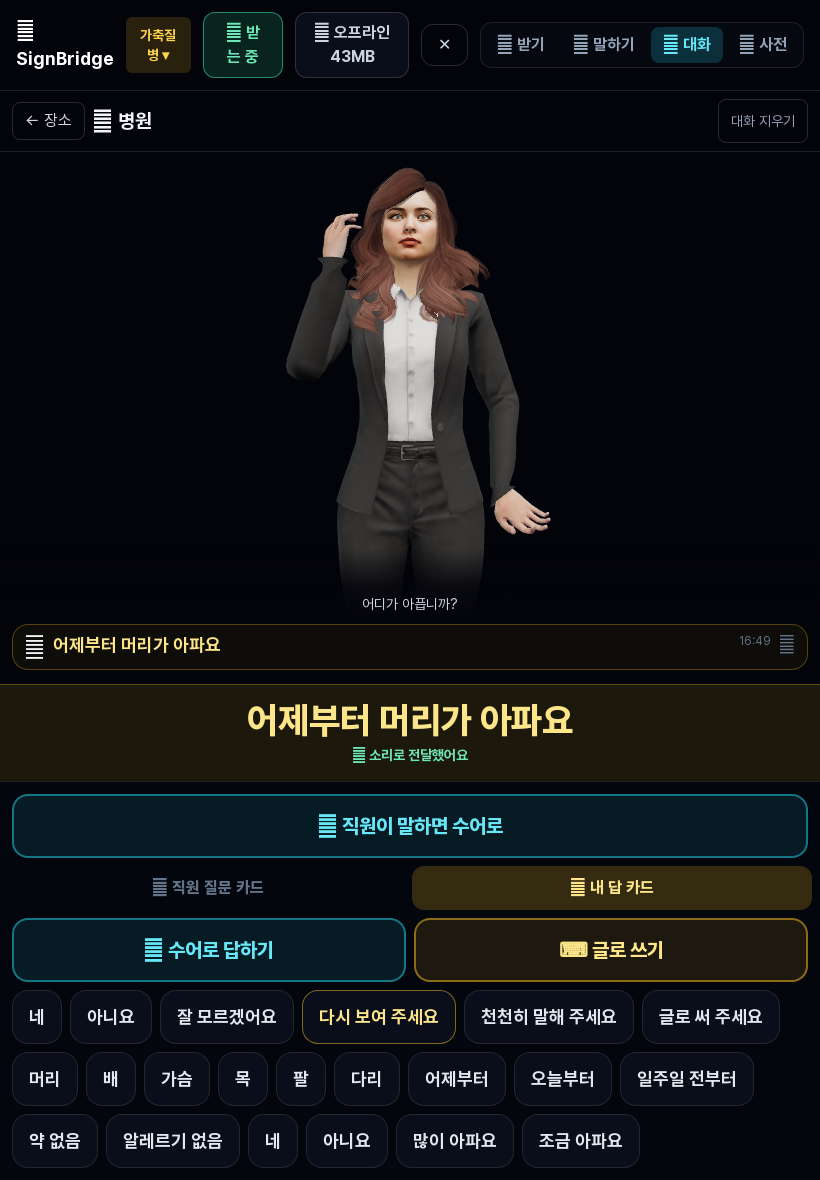
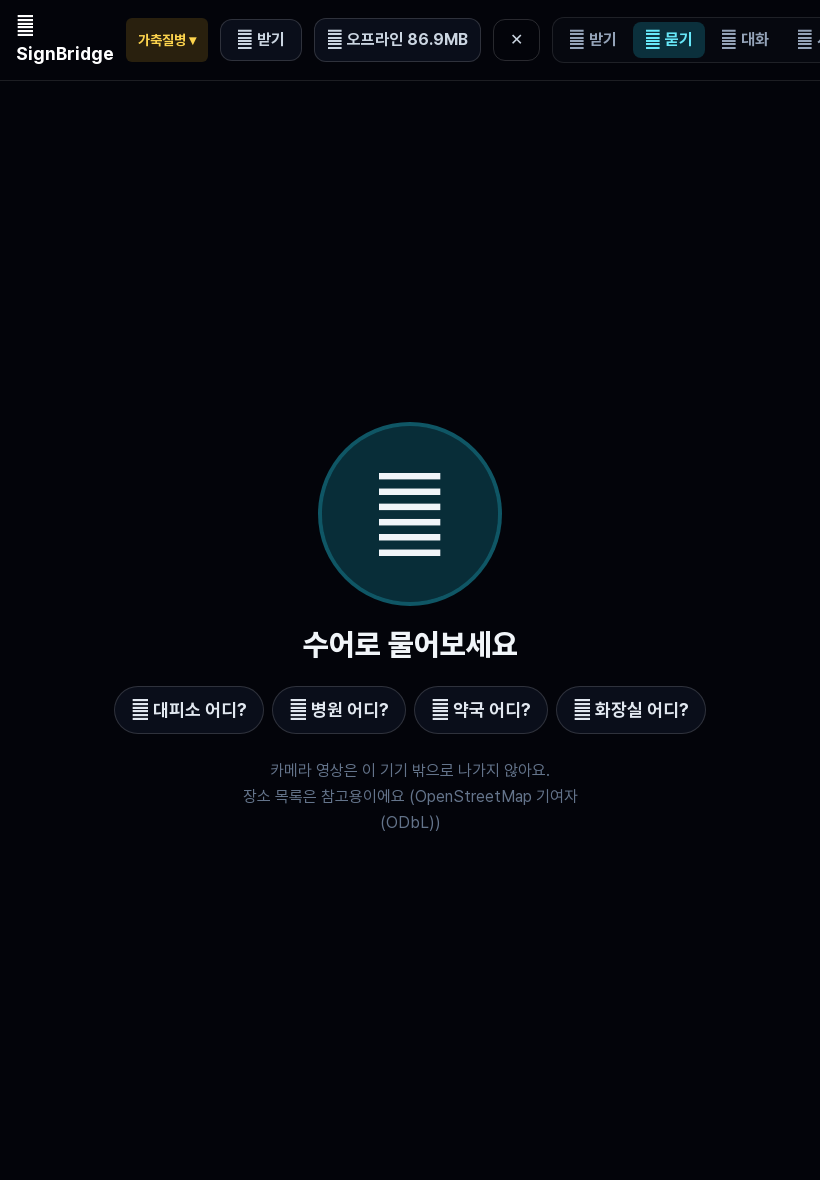
ONNX 내보내기를 뚫었다 — 동적 길이 두 길이 다 막혀 정적으로 굳혔다
내보내기가 "성공"한 뒤 실제로 돌려 보니 깨졌다. 미리 시험하길 잘했다.

  · 예전 트레이서(dynamic_axes) → 어텐션 reshape에 **그때의 길이가 상수로 구워진다.**
    파일은 멀쩡히 나오는데 길이가 다른 문장을 넣는 순간 죽는다:
      Reshape ... Input shape:{29,1,384}, requested shape:{24,6,64}
    24음절로 뽑고 29음절을 넣었더니 바로 이렇게 됐다.
  · dynamo → 인코더는 되는데 디코더에서
      Could not guard on data-dependent expression Eq(u0, 1)
    위치 인코딩 버퍼 길이(512)와 축 상한이 같아 생기던 제약은 따로 잡았다.

그래서 **모양을 전부 고정**했다. 입력은 항상 128음절(뒤는 패딩 + 마스크),
출력 버퍼도 항상 48칸이다. 학습 때도 마스크를 쓰므로 결과가 달라지지 않고,
인과 마스크가 있어 뒤쪽 패딩이 앞쪽 출력을 오염시키지 않는다.
브라우저에서 모양 때문에 깨질 자리가 아예 없다.

그래프가 맞는지 수치로 확인했다(중간 체크포인트 기준):
  encoder 최대 오차 3.8e-6 · decoder 8.6e-6 · 같은 토큰 선택 ✓

int8은 아직 판단 보류다. 덜 학습된 모델이라 후보가 박빙이어서 양자화 오차가
argmax를 뒤집는다 — 학습이 끝난 뒤 다시 잰다.
  fp32 encoder 30.5MB + decoder 88.4MB
  int8 encoder  7.9MB + decoder 22.4MB (합계 30.4MB)

e2e가 실제 문제도 하나 잡았다. 앱이 아직 없는 모델 파일을 찾아 404가 나는데,
이건 "있으면 쓰고 없으면 사전으로 되돌아가는" 정상 동작이다. 선택 자산 경로만
콘솔 오류 집계에서 빼고 나머지 404는 그대로 잡는다.

diff --git a/src/agents/nnSignAgent.ts b/src/agents/nnSignAgent.ts
@@ -30,7 +30,9 @@ interface Meta {
   pad: number
   bos: number
   eos: number
+  /** 입력 음절 칸 수 — **고정이다.** 짧으면 패딩하고 마스크로 가린다. */
   max_src: number
+  /** 출력 글로스 칸 수 — 역시 고정. 매 스텝 전체를 계산하고 그 자리만 읽는다. */
   max_tgt: number
 }
 
@@ -117,33 +119,50 @@ export class NnSignAgent implements SignAgent {
     }
   }
 
-  /** 그리디 디코딩. 캐시를 쓰지 않고 매 스텝 앞부분을 다시 계산한다 —
-   *  글로스 40개를 넘지 않는 문장이라 이 정도로 충분하고, 그래프가 훨씬 단순하다. */
+  /** 그리디 디코딩.
+   *
+   *  **모양이 전부 고정이다.** 입력은 항상 `max_src`칸(뒤는 패딩 + 마스크),
+   *  출력 버퍼도 항상 `max_tgt`칸이다. 동적 길이로 내보내려던 두 길이 다 막혀서
+   *  (어텐션 reshape에 길이가 상수로 구워지거나, dynamo가 마스크 모양에서 죽는다)
+   *  정적으로 굳혔다 — 브라우저에서 모양 때문에 깨질 자리가 아예 없다.
+   *
+   *  인과 마스크가 그래프 안에 있어 **뒤쪽 패딩이 앞쪽 결과를 오염시키지 않는다.**
+   *  매 스텝 지금 자리의 로짓만 읽으면 된다. */
   private async translate(text: string): Promise<string[]> {
     const meta = this.meta!
     const ort = this.ort as typeof import('onnxruntime-web')
     const enc = this.enc as import('onnxruntime-web').InferenceSession
     const dec = this.dec as import('onnxruntime-web').InferenceSession
+    const S = meta.max_src
+    const T = meta.max_tgt
 
     const index = new Map(meta.src.map((s, i) => [s, i]))
-    const ids = syllables(text).slice(0, meta.max_src).map((c) => index.get(c) ?? 3 /* <unk> */)
-    if (ids.length === 0) return []
+    const chars = syllables(text).slice(0, S)
+    if (chars.length === 0) return []
 
-    const srcTensor = new ort.Tensor('int64', BigInt64Array.from(ids.map(BigInt)), [1, ids.length])
-    const encOut = await enc.run({ src: srcTensor })
+    const srcArr = new BigInt64Array(S).fill(BigInt(meta.pad))
+    const padArr = new Uint8Array(S).fill(1)
+    chars.forEach((c, i) => {
+      srcArr[i] = BigInt(index.get(c) ?? 3 /* <unk> */)
+      padArr[i] = 0
+    })
+    const src = new ort.Tensor('int64', srcArr, [1, S])
+    const pad = new ort.Tensor('bool', padArr, [1, S])
+    const encOut = await enc.run({ src, pad })
     const memory = encOut[enc.outputNames[0]]
 
-    const out: number[] = [meta.bos]
-    for (let step = 0; step < meta.max_tgt; step += 1) {
-      const tgt = new ort.Tensor('int64', BigInt64Array.from(out.map(BigInt)), [1, out.length])
-      const res = await dec.run({ memory, tgt })
-      const logits = res[dec.outputNames[0]]
-      const vocab = meta.tgt.length
-      const base = (out.length - 1) * vocab       // 마지막 위치의 로짓만 본다
-      const data = logits.data as Float32Array
+    const tgtArr = new BigInt64Array(T).fill(BigInt(meta.pad))
+    tgtArr[0] = BigInt(meta.bos)
+    const out: number[] = []
+    const vocab = meta.tgt.length
+    for (let step = 0; step < T - 1; step += 1) {
+      const tgt = new ort.Tensor('int64', tgtArr, [1, T])
+      const res = await dec.run({ memory, mem_pad: pad, tgt })
+      const data = res[dec.outputNames[0]].data as Float32Array
+      const base = step * vocab                  // 지금 자리의 로짓
       let best = -1
       let bestVal = -Infinity
-      for (let v = 4; v < vocab; v += 1) {        // 특수 토큰(0~3)은 후보에서 뺀다
+      for (let v = 4; v < vocab; v += 1) {       // 특수 토큰(0~3)은 후보에서 뺀다
         if (this.playable && !this.playable.has(v)) continue
         const val = data[base + v]
         if (val > bestVal) {
@@ -151,10 +170,11 @@ export class NnSignAgent implements SignAgent {
           best = v
         }
       }
-      // EOS는 위 반복에서 제외되므로 따로 견준다 — 문장을 끝낼 줄 알아야 한다.
-      if (data[base + meta.eos] > bestVal || best < 0) break
+      // EOS는 위 반복에서 빠지므로 따로 견준다 — 문장을 끝낼 줄 알아야 한다.
+      if (best < 0 || data[base + meta.eos] > bestVal) break
       out.push(best)
+      tgtArr[step + 1] = BigInt(best)
     }
-    return out.slice(1).map((i) => meta.tgt[i]).filter(Boolean)
+    return out.map((i) => meta.tgt[i]).filter(Boolean)
   }
 }

diff --git a/ml/export_t2gs_onnx.py b/ml/export_t2gs_onnx.py
@@ -36,22 +36,28 @@ class EncoderWrap(nn.Module):
         super().__init__()
         self.m = m
 
-    def forward(self, src: torch.Tensor) -> torch.Tensor:
+    def forward(self, src: torch.Tensor, pad: torch.Tensor) -> torch.Tensor:
         import math
         h = self.m.pos(self.m.src_emb(src) * math.sqrt(self.m.d))
-        return self.m.tr.encoder(h)
+        return self.m.tr.encoder(h, src_key_padding_mask=pad)
 
 
 class DecoderWrap(nn.Module):
-    def __init__(self, m: SmallT2G) -> None:
+    """인과 마스크는 그래프 안에 고정 크기로 굽는다(입력 길이가 고정이라 안전하다)."""
+
+    def __init__(self, m: SmallT2G, max_tgt: int) -> None:
         super().__init__()
         self.m = m
+        self.register_buffer(
+            "causal", torch.triu(torch.full((max_tgt, max_tgt), float("-inf")), diagonal=1)
+        )
 
-    def forward(self, memory: torch.Tensor, tgt: torch.Tensor) -> torch.Tensor:
+    def forward(self, memory: torch.Tensor, mem_pad: torch.Tensor,
+                tgt: torch.Tensor) -> torch.Tensor:
         import math
-        causal = nn.Transformer.generate_square_subsequent_mask(tgt.size(1), device=tgt.device)
         h = self.m.pos(self.m.tgt_emb(tgt) * math.sqrt(self.m.d))
-        h = self.m.tr.decoder(h, memory, tgt_mask=causal)
+        h = self.m.tr.decoder(h, memory, tgt_mask=self.causal,
+                              memory_key_padding_mask=mem_pad)
         return self.m.out(h)
 
 
@@ -60,7 +66,18 @@ def main() -> int:
     ap.add_argument("--checkpoint", type=Path, required=True, help="t2gs 출력 폴더")
     ap.add_argument("--out", type=Path, required=True)
     ap.add_argument("--quantize", action="store_true")
+    ap.add_argument("--max-src", type=int, default=128,
+                    help="입력 음절 칸 수(고정). 재난문자는 대개 60~120음절이다")
     a = ap.parse_args()
+
+    # **MultiheadAttention의 빠른 경로를 끈다.**
+    #
+    # 켜 두면 트레이서가 어텐션 안의 reshape에 **그때의 문장 길이를 상수로 굽는다.**
+    # 내보내기는 성공하고 파일도 나오는데, 길이가 다른 문장을 넣는 순간
+    # `Reshape ... requested shape {24,6,64}` 로 죽는다(실측: 24글자로 뽑고
+    # 29글자를 넣었더니 바로 깨졌다). 빌드가 아니라 **실행 시점에** 드러나는 종류라
+    # 반드시 돌려 보고 확인해야 한다.
+    torch.backends.mha.set_fastpath_enabled(False)
 
     ck = torch.load(a.checkpoint / "best.pt", map_location="cpu", weights_only=False)
     cfg = ck["cfg"]
@@ -69,21 +86,37 @@ def main() -> int:
     model.eval()
 
     a.out.mkdir(parents=True, exist_ok=True)
-    src = torch.randint(4, cfg["n_src"], (1, 24))
+    # **모양을 전부 고정한다.**
+    #
+    # 동적 길이로 내보내는 두 길을 다 시도했는데 둘 다 막혔다:
+    #   · 예전 트레이서(dynamic_axes) → 어텐션 reshape에 그때의 길이가 **상수로 구워진다.**
+    #     파일은 나오는데 길이가 다른 문장에서 죽는다
+    #     (`Reshape ... Input shape:{29,1,384}, requested shape:{24,6,64}`, 실측).
+    #   · dynamo → 디코더에서 `Could not guard on data-dependent expression Eq(u0, 1)`.
+    #
+    # 그래서 입력 길이를 고정하고 **패딩 마스크로 처리**한다. 학습 때도 마스크를
+    # 쓰므로 결과가 달라지지 않는다. 그래프가 완전히 정적이라 브라우저에서
+    # 모양 때문에 깨질 자리가 아예 없다 — 대가는 짧은 문장에서도 정해진 칸을
+    # 다 계산하는 것뿐이고, 모델이 작아 문제되지 않는다.
+    S_FIX = int(a.max_src)
+    T_FIX = int(cfg["max_tgt"])
+
+    src = torch.full((1, S_FIX), PAD, dtype=torch.long)
+    src[0, :20] = torch.randint(4, cfg["n_src"], (20,))
+    pad = src == PAD
+    tgt = torch.full((1, T_FIX), PAD, dtype=torch.long)
+    tgt[0, 0] = BOS
     with torch.no_grad():
-        memory = EncoderWrap(model)(src)
-    tgt = torch.tensor([[BOS, 5, 6]])
+        memory = EncoderWrap(model)(src, pad)
 
     torch.onnx.export(
-        EncoderWrap(model), (src,), a.out / "encoder.onnx",
-        input_names=["src"], output_names=["memory"],
-        dynamic_axes={"src": {1: "S"}, "memory": {1: "S"}},
+        EncoderWrap(model), (src, pad), a.out / "encoder.onnx",
+        input_names=["src", "pad"], output_names=["memory"],
         opset_version=OPSET, do_constant_folding=True,
     )
     torch.onnx.export(
-        DecoderWrap(model), (memory, tgt), a.out / "decoder.onnx",
-        input_names=["memory", "tgt"], output_names=["logits"],
-        dynamic_axes={"memory": {1: "S"}, "tgt": {1: "T"}, "logits": {1: "T"}},
+        DecoderWrap(model, T_FIX), (memory, pad, tgt), a.out / "decoder.onnx",
+        input_names=["memory", "mem_pad", "tgt"], output_names=["logits"],
         opset_version=OPSET, do_constant_folding=True,
     )
 
@@ -92,7 +125,7 @@ def main() -> int:
         "task": "text2gloss",
         "src": vocab["src"], "tgt": vocab["tgt"],
         "pad": PAD, "bos": BOS, "eos": EOS,
-        "max_src": cfg["max_src"], "max_tgt": cfg["max_tgt"],
+        "max_src": S_FIX, "max_tgt": T_FIX, "fixed_shapes": True,
         "d_model": cfg["d"], "enc": cfg["enc"], "dec": cfg["dec"],
         "opset": OPSET,
     }, ensure_ascii=False, separators=(",", ":")), encoding="utf-8")

diff --git a/scripts/e2e_app.py b/scripts/e2e_app.py
@@ -155,7 +155,12 @@ async def run_device(browser, name: str, w: int, h: int, mobile: bool, keep: boo
     # (오류 목록에 섞으면 무해한 라이브러리 경고까지 검사를 깨뜨린다.)
     warns: list[str] = []
     pg.on("console", lambda m: warns.append(m.text) if m.type == "warning" else None)
-    pg.on("response", lambda r: errors.append(f"HTTP {r.status} {r.url}") if r.status >= 400 else None)
+    # 학습 번역 모델(models/t2g)은 **있으면 쓰고 없으면 사전으로 되돌아가는** 선택 자산이다.
+    # 아직 안 실은 배포본에서 404가 나는 것은 정상 동작이라 오류로 세지 않는다.
+    # (그 외 404는 그대로 잡는다 — 조각·모델이 빠진 배포를 놓치면 안 된다.)
+    OPTIONAL_404 = "/models/t2g/"
+    pg.on("response", lambda r: errors.append(f"HTTP {r.status} {r.url}")
+          if r.status >= 400 and OPTIONAL_404 not in r.url else None)
 
     rep.note(f"  [{name} {w}×{h}]")
     # **networkidle을 기다리지 않는다.** 이 앱은 첫 방문 뒤 오프라인 필수 세트
